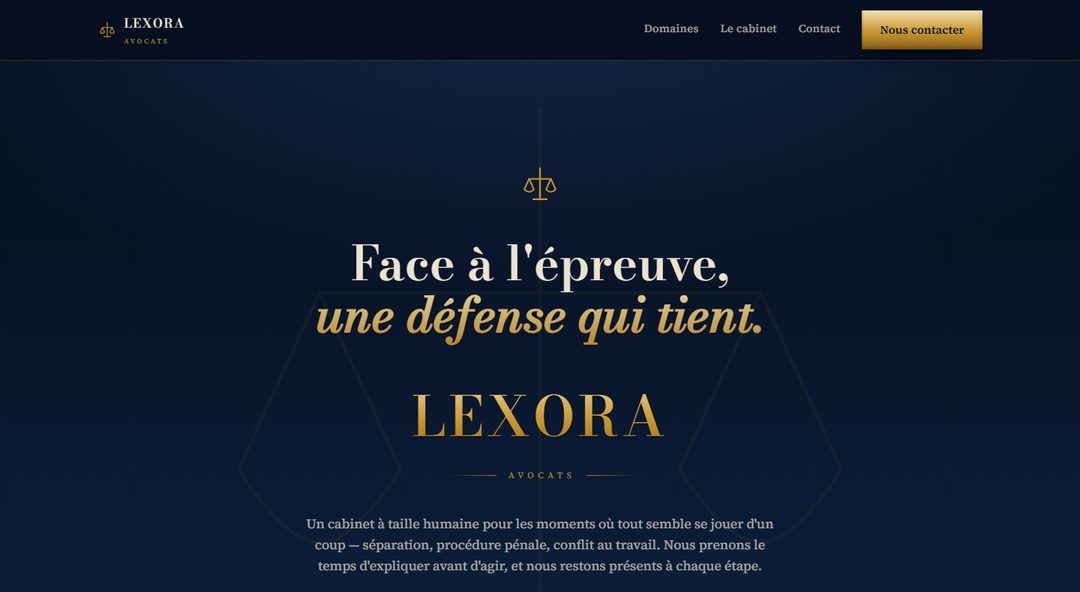
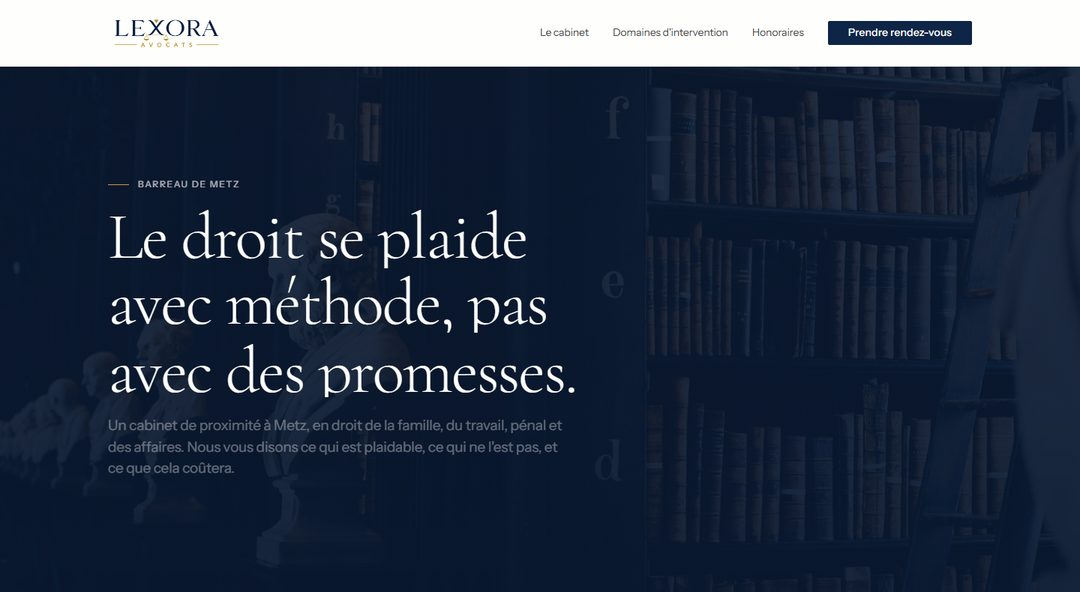
Corrige l'etude de cas Lexora : le bon projet
La capture et le texte decrivaient une premiere version d'une seule
page (dossier lexora/). Le projet reel est celui du dossier
cabinet-avocats-metz : six pages, quatre domaines d'intervention,
et une page honoraires complete.

Nouvel angle, tire du site lui-meme : la page honoraires. La plupart
des cabinets s'en tiennent a « devis sur demande » ; afficher une
grille indicative est un parti pris, et c'est ce que le site defend
jusque dans son titre d'accueil.

Le choix technique retenu pour l'etude de cas est l'absence d'etat
initial masquant en CSS : les animations posent elles-memes leur
opacite de depart, avec un filet de securite a quatre secondes. Si
le JavaScript ne se charge pas, le site reste lisible — ce qui n'est
pas un detail sur un site consulte parfois dans l'urgence.

Captures regenerees aux memes dimensions (1440x790) et sous les
memes noms de fichiers : le balisage des images est inchange.

diff --git a/portfolio.html b/portfolio.html
@@ -397,7 +397,7 @@
                srcset="/assets/img/lexora-avocats-720.jpg 720w,
                        /assets/img/lexora-avocats-1080.jpg 1080w,
                        /assets/img/lexora-avocats-1440.jpg 1440w"
-               alt="Page d'accueil du site Lexora Avocats : façade bleu marine, balance de justice dorée et titre « Face à l'épreuve, une défense qui tient »"
+               alt="Page d'accueil du site Lexora Avocats : photographie sombre d'une bibliothèque juridique et titre « Le droit se plaide avec méthode, pas avec des promesses »"
                width="1440" height="790" loading="lazy">
         </picture>
       </figure>
@@ -406,48 +406,50 @@
         <div class="case__intro">
           <p class="label">Étude de cas</p>
           <span class="case__status case__status--demo">Démonstration — cabinet fictif</span>
-          <h2 class="section__title">Lexora — le site d'un cabinet d'avocats à Metz</h2>
+          <h2 class="section__title">Lexora Avocats — le site d'un cabinet à Metz</h2>
           <p class="lede">
-            Un cabinet inventé, pour traiter un cas où le visiteur n'est pas un client
-            ordinaire&nbsp;: il arrive inquiet, souvent le soir, parfois dans l'urgence.
+            Un cabinet inventé, pour traiter la question que les sites d'avocats évitent
+            presque tous&nbsp;: combien ça coûte&nbsp;?
           </p>
         </div>
 
         <div class="case__text">
           <h3>L'exercice</h3>
           <p>
-            Lexora n'existe pas. J'ai construit ce site pour une raison précise&nbsp;: on
-            ne cherche pas un avocat comme on cherche un plombier. Séparation, procédure
-            pénale, conflit au travail — le visiteur traverse un mauvais moment. Un site
-            qui cherche à impressionner le fait fuir&nbsp;; un site qui rassure le fait
-            décrocher son téléphone.
+            Lexora n'existe pas. J'ai construit ce site parce qu'on ne cherche pas un
+            avocat comme on cherche un plombier&nbsp;: séparation, licenciement,
+            procédure pénale — le visiteur arrive inquiet, souvent le soir. Et la
+            première question qu'il se pose, aucun site ne veut y répondre.
           </p>
 
           <h3>La réponse</h3>
           <p>
-            Une seule page, construite autour de trois domaines immédiatement
-            identifiables — famille, pénal, travail. Le parti pris visuel est celui de la
-            plaque de cabinet en laiton&nbsp;: une façade bleu marine, un nom gravé, et le
-            contenu posé sur des plaques crème en léger relief. C'est sobre et un peu
-            solennel, parce que le sujet l'est.
+            Une page entière consacrée aux honoraires&nbsp;: modes de facturation, grille
+            indicative, et les questions qu'on n'ose pas poser. C'est un parti pris —
+            la plupart des cabinets préfèrent «&nbsp;devis sur demande&nbsp;». Afficher
+            des ordres de grandeur ne fait pas fuir&nbsp;: ça fait venir des gens déjà
+            rassurés, et ça évite les rendez-vous qui n'aboutissent jamais. Le reste du
+            site tient la même ligne, jusqu'au titre d'accueil.
           </p>
 
           <h3>Ce que contient le site</h3>
           <ul class="case__list">
-            <li>Trois domaines de pratique présentés sans jargon juridique</li>
-            <li>Une présentation du cabinet centrée sur la méthode&nbsp;: expliquer avant d'agir</li>
-            <li>Un formulaire de contact avec validation et messages d'erreur en clair</li>
-            <li>Une navigation mobile plein écran, pensée pour une consultation le soir</li>
-            <li>Typographie et symbole repris du logo, auto-hébergés</li>
+            <li>Six pages : accueil, cabinet, domaines, honoraires, contact, mentions légales</li>
+            <li>Quatre domaines d'intervention : famille, travail, pénal, affaires</li>
+            <li>Une page honoraires complète, avec grille indicative et questions fréquentes</li>
+            <li>Une charte sans aucune ombre portée : filets or, aplats, cinq tailles de texte</li>
+            <li>Des animations au défilement, neutralisées si le visiteur les a désactivées</li>
           </ul>
 
           <h3>Le choix technique</h3>
           <p>
-            Une page unique en HTML et CSS, sans framework. Le détail dont je suis le plus
-            satisfait n'est pas technique&nbsp;: partout où un contenu réel manquait —
-            témoignages, chiffres, parcours des associés — le site affiche un encadré qui
-            le signale, au lieu de combler avec du texte inventé. C'est la règle que je
-            m'applique aussi sur les vrais projets.
+            Six pages statiques, sans CMS. La décision dont je suis le plus satisfait ne
+            se voit pas&nbsp;: <strong>aucun élément n'est masqué par la feuille de
+            styles</strong>. Les animations posent elles-mêmes leur état de départ, et un
+            filet de sécurité révèle tout au bout de quatre secondes. Autrement dit, si le
+            JavaScript ne se charge pas — réseau faible, navigateur ancien, extension
+            trop zélée — le site reste intégralement lisible. Sur un site où quelqu'un
+            peut chercher un avocat dans l'urgence, une page blanche n'est pas une option.
           </p>
         </div>
 
@@ -458,7 +460,7 @@
           </div>
           <div>
             <dt>Projet</dt>
-            <dd>Site vitrine de cabinet d'avocats, page unique</dd>
+            <dd>Site vitrine de cabinet d'avocats, 6 pages</dd>
           </div>
           <div>
             <dt>Année</dt>
@@ -466,7 +468,7 @@
           </div>
           <div>
             <dt>Réalisation</dt>
-            <dd>HTML et CSS, sans framework</dd>
+            <dd>HTML, CSS et JavaScript, sans framework</dd>
           </div>
         </dl>
       </div>
